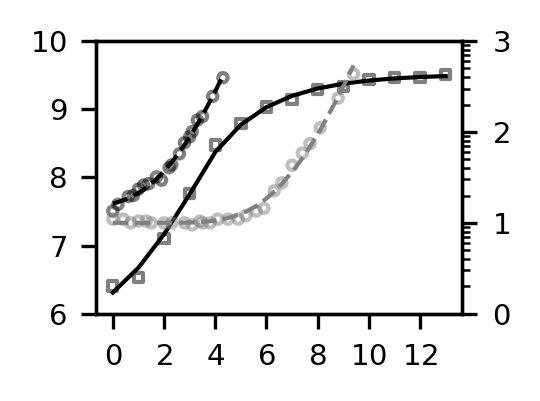
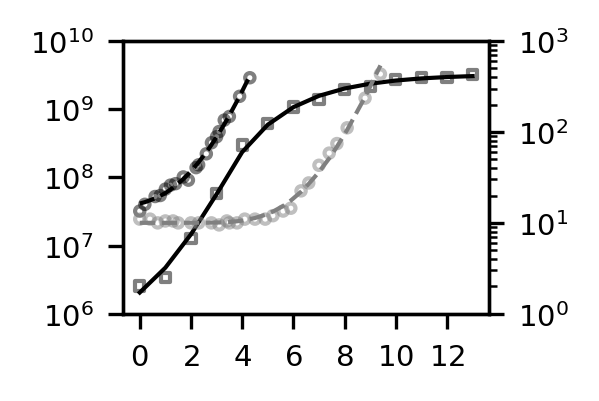
Improve axes

diff --git a/Simulations/I0/I0_Script.py b/Simulations/I0/I0_Script.py
@@ -1115,7 +1115,7 @@ ax1.semilogy(Fitted_Mono_Closed.t, Fitted_Mono_Closed.y[0], linewidth=1,color='k
 ax1.scatter(np.arange(len(S_Mono)),S_Mono, marker='s', s=s, color='none',edgecolors='k', zorder=2,alpha = 0.5)
 
 ax1.set_yticks([1e6, 1e7, 1e8, 1e9, 1e10])
-ax1.set_yticklabels([r'$6$', r'$7$', r'$8$', r'$9$', r'$10$'])
+ax1.set_yticklabels([r'$10^6$', r'$10^7$', r'$10^8$', r'$10^9$', r'$10^{10}$'])
 ax1.set_ylim(1e6, 1e10)
 
 # X axis
@@ -1138,7 +1138,7 @@ ax2.scatter(S_Co_Open_Time,S_Co_Open, marker='o', s=s, color='none',edgecolors='
 
 
 ax2.set_yticks([1e0, 1e1, 1e2, 1e3])
-ax2.set_yticklabels([r'$0$',r'$1$', r'$2$', r'$3$'])
+ax2.set_yticklabels([r'$10^0$',r'$10^1$', r'$10^2$', r'$10^3$'])
 ax2.set_ylim(1, 1e3)
 
 plt.xticks(fontsize=7, fontname='Arial')
@@ -1316,7 +1316,7 @@ ax1.semilogy(result_Closed.t, result_Closed.y[0], linewidth=1,color='k')
 ax1.scatter(result_Closed.t[:len(P_Mono)], P_Mono, marker='s', s=s, color='none',edgecolors='k', zorder=5,alpha=0.5)
 
 ax1.set_yticks([1e6, 1e7, 1e8, 1e9, 1e10])
-ax1.set_yticklabels([r'$6$', r'$7$', r'$8$', r'$9$', r'$10$'])
+ax1.set_yticklabels([r'$10^6$', r'$10^7$', r'$10^8$', r'$10^9$', r'$10^{10}$'])
 ax1.set_ylim(1e6, 1e10)
 
 # X axis
@@ -1334,7 +1334,7 @@ ax2.semilogy(result_Open.t, result_Open.y[0], linewidth=1,linestyle='dashed',col
 ax2.scatter(P_Open_Time, P_Open, marker='o', s=s, color='none',edgecolors='k', zorder=5,alpha=0.5)
 
 ax2.set_yticks([1e1, 1e2, 1e3])
-ax2.set_yticklabels([r'$1$', r'$2$', r'$3$'])
+ax2.set_yticklabels([r'$10^1$', r'$10^2$', r'$10^3$'])
 ax2.set_ylim(10, 1e3)
 
 plt.xticks(fontsize=7, fontname='Arial')
